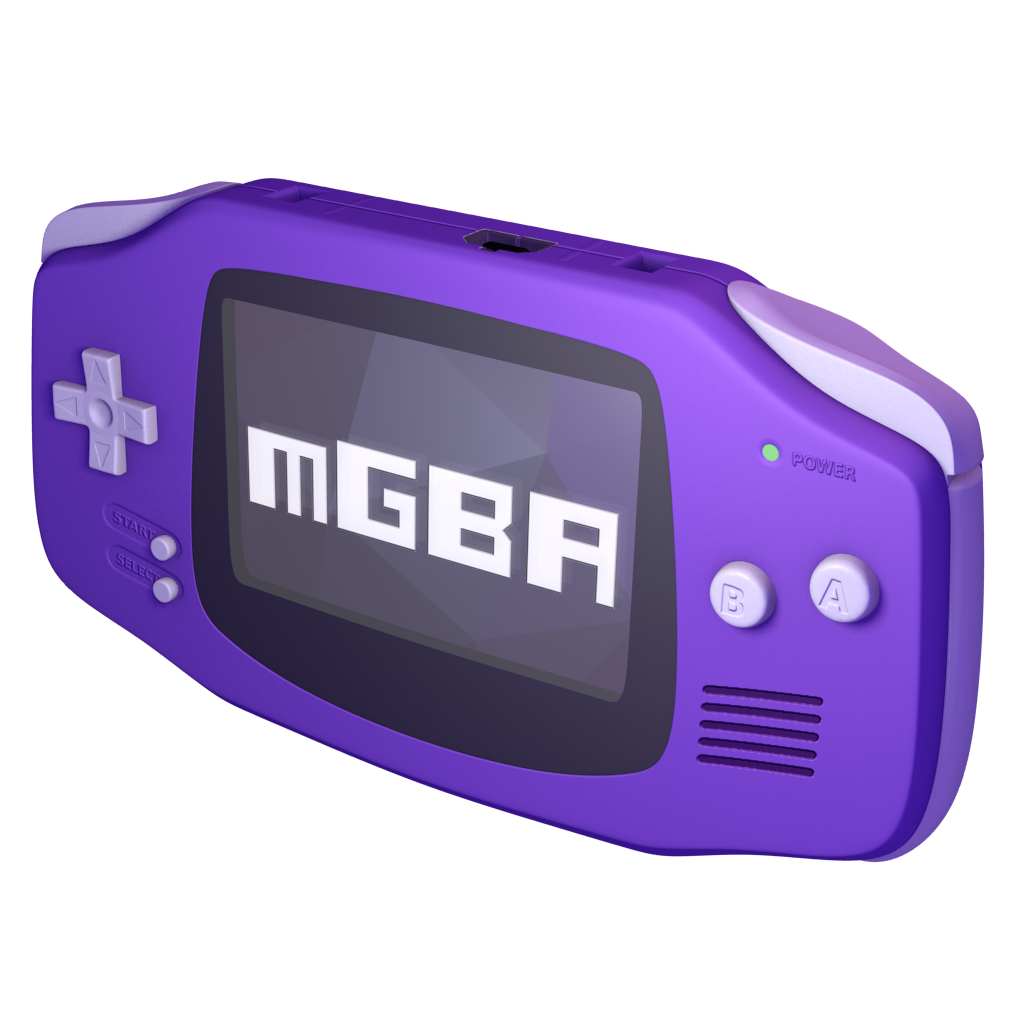
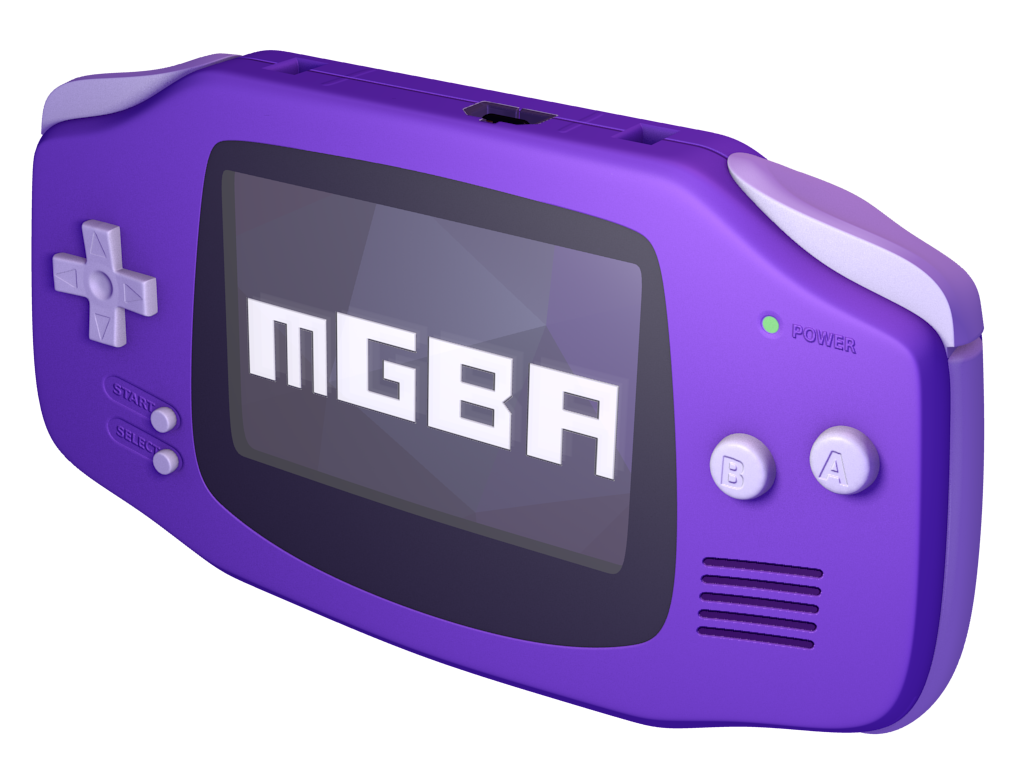
Qt: Add about screen

diff --git a/src/platform/qt/Window.cpp b/src/platform/qt/Window.cpp
@@ -13,6 +13,7 @@
 #include <QPainter>
 #include <QStackedLayout>
 
+#include "AboutScreen.h"
 #include "CheatsView.h"
 #include "ConfigController.h"
 #include "Display.h"
@@ -344,6 +345,11 @@ void Window::openPaletteWindow() {
 void Window::openMemoryWindow() {
 	MemoryView* memoryWindow = new MemoryView(m_controller);
 	openView(memoryWindow);
+}
+
+void Window::openAboutScreen() {
+	AboutScreen* about = new AboutScreen();
+	openView(about);
 }
 
 #ifdef BUILD_SDL
@@ -753,6 +759,14 @@ void Window::setupMenu(QMenuBar* menubar) {
 		GBAApp::app()->newWindow();
 	});
 	addControlledAction(fileMenu, multiWindow, "multiWindow");
+
+#ifndef Q_OS_MAC
+	fileMenu->addSeparator();
+#endif
+
+	QAction* about = new QAction(tr("About"), fileMenu);
+	connect(about, SIGNAL(triggered()), this, SLOT(openAboutScreen()));
+	fileMenu->addAction(about);
 
 #ifndef Q_OS_MAC
 	addControlledAction(fileMenu, fileMenu->addAction(tr("E&xit"), this, SLOT(close()), QKeySequence::Quit), "quit");
@@ -1216,11 +1230,11 @@ void WindowBackground::paintEvent(QPaintEvent*) {
 	painter.setRenderHint(QPainter::SmoothPixmapTransform);
 	painter.fillRect(QRect(QPoint(), size()), Qt::black);
 	QSize s = size();
-	QSize ds = s;
-	if (s.width() * m_aspectHeight > s.height() * m_aspectWidth) {
-		ds.setWidth(s.height() * m_aspectWidth / m_aspectHeight);
-	} else if (s.width() * m_aspectHeight < s.height() * m_aspectWidth) {
-		ds.setHeight(s.width() * m_aspectHeight / m_aspectWidth);
+	QSize ds = s * 0.8;
+	if (ds.width() * m_aspectHeight > ds.height() * m_aspectWidth) {
+		ds.setWidth(ds.height() * m_aspectWidth / m_aspectHeight);
+	} else if (ds.width() * m_aspectHeight < ds.height() * m_aspectWidth) {
+		ds.setHeight(ds.width() * m_aspectHeight / m_aspectWidth);
 	}
 	QPoint origin = QPoint((s.width() - ds.width()) / 2, (s.height() - ds.height()) / 2);
 	QRect full(origin, ds);

diff --git a/src/platform/qt/AboutScreen.cpp b/src/platform/qt/AboutScreen.cpp
@@ -1,0 +1,36 @@
+/* Copyright (c) 2013-2015 Jeffrey Pfau
+ *
+ * This Source Code Form is subject to the terms of the Mozilla Public
+ * License, v. 2.0. If a copy of the MPL was not distributed with this
+ * file, You can obtain one at http://mozilla.org/MPL/2.0/. */
+#include "AboutScreen.h"
+
+#include "util/version.h"
+
+#include <QPixmap>
+
+using namespace QGBA;
+
+AboutScreen::AboutScreen(QWidget* parent)
+	: QDialog(parent)
+{
+	m_ui.setupUi(this);
+
+	QPixmap logo(":/res/mgba-1024.png");
+	logo = logo.scaled(m_ui.logo->minimumSize() * devicePixelRatio(), Qt::KeepAspectRatio, Qt::SmoothTransformation);
+	logo.setDevicePixelRatio(devicePixelRatio());
+	m_ui.logo->setPixmap(logo);
+
+	m_ui.projectName->setText(QLatin1String(projectName));
+	m_ui.projectVersion->setText(QLatin1String(projectVersion));
+	QString gitInfo = m_ui.gitInfo->text();
+	gitInfo.replace("{gitBranch}", QLatin1String(gitBranch));
+	gitInfo.replace("{gitCommit}", QLatin1String(gitCommit));
+	m_ui.gitInfo->setText(gitInfo);
+	QString description = m_ui.description->text();
+	description.replace("{projectName}", QLatin1String(projectName));
+	m_ui.description->setText(description);
+	QString extraLinks = m_ui.extraLinks->text();
+	extraLinks.replace("{gitBranch}", QLatin1String(gitBranch));
+	m_ui.extraLinks->setText(extraLinks);
+}

diff --git a/src/platform/qt/AboutScreen.h b/src/platform/qt/AboutScreen.h
@@ -1,0 +1,27 @@
+/* Copyright (c) 2013-2014 Jeffrey Pfau
+ *
+ * This Source Code Form is subject to the terms of the Mozilla Public
+ * License, v. 2.0. If a copy of the MPL was not distributed with this
+ * file, You can obtain one at http://mozilla.org/MPL/2.0/. */
+#ifndef QGBA_ABOUT_SCREEN
+#define QGBA_ABOUT_SCREEN
+
+#include <QDialog>
+
+#include "ui_AboutScreen.h"
+
+namespace QGBA {
+
+class AboutScreen : public QDialog {
+Q_OBJECT
+
+public:
+	AboutScreen(QWidget* parent = nullptr);
+
+private:
+	Ui::AboutScreen m_ui;
+};
+
+}
+
+#endif

diff --git a/src/platform/qt/Window.h b/src/platform/qt/Window.h
@@ -82,6 +82,8 @@ public slots:
 	void openPaletteWindow();
 	void openMemoryWindow();
 
+	void openAboutScreen();
+
 #ifdef BUILD_SDL
 	void openGamepadWindow();
 #endif
